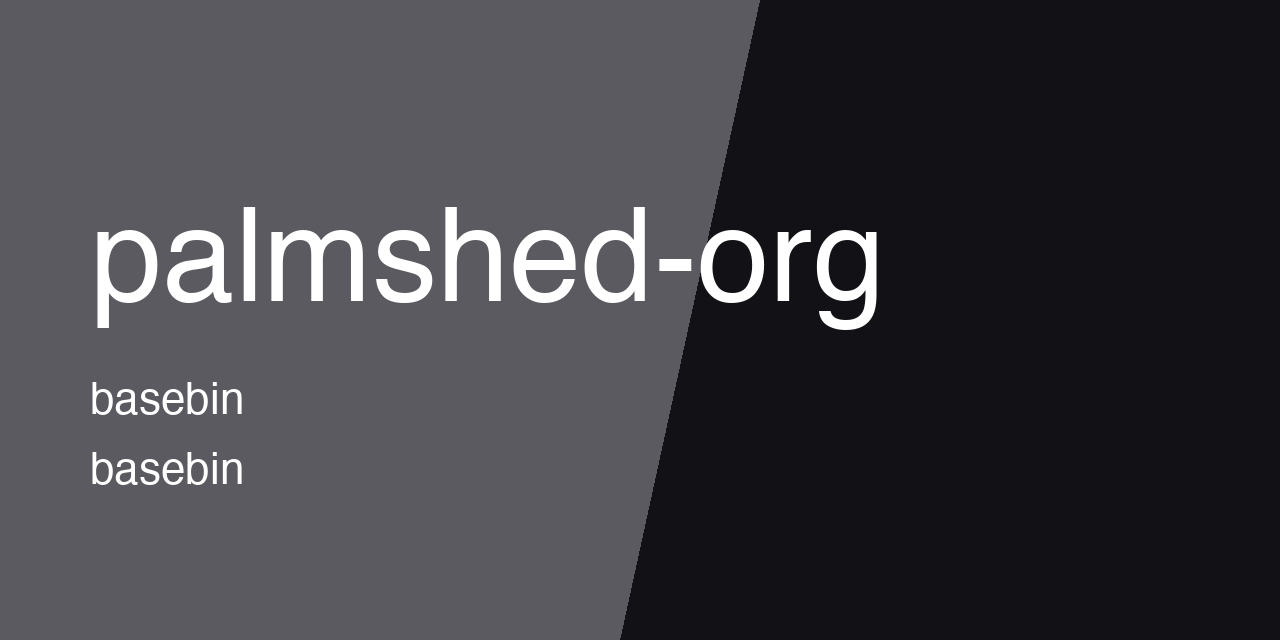
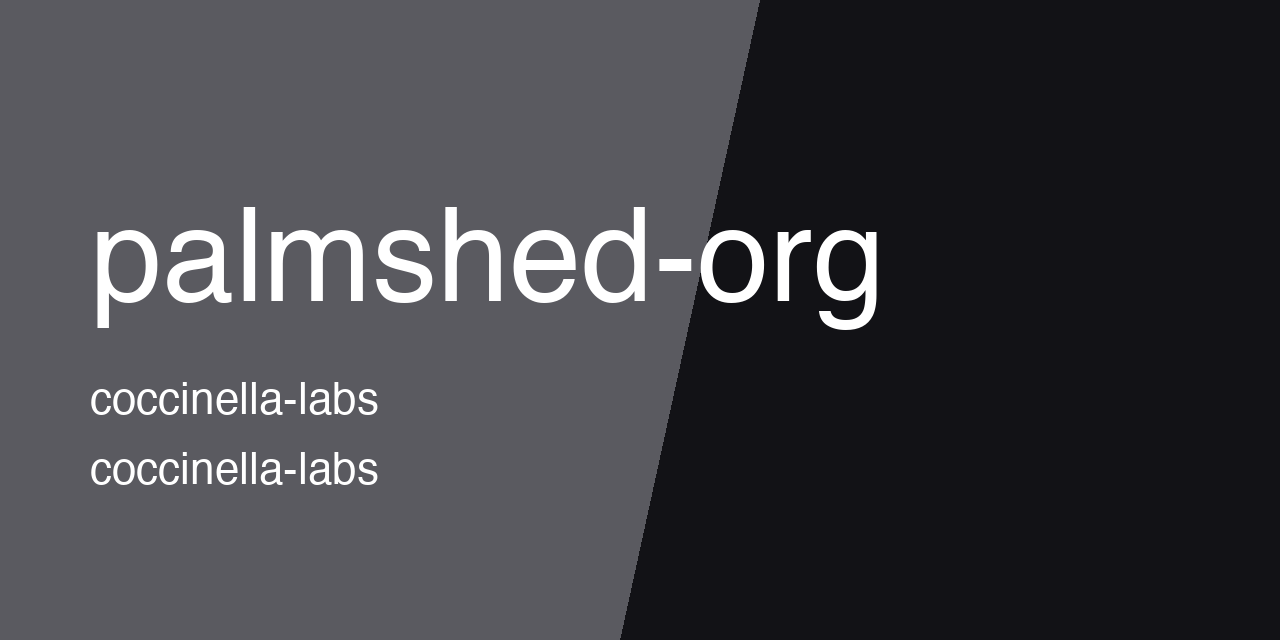
[docs] move thumbnail to coccinella-labs

Changed region(s): [[0.0625, 0.5938, 0.3125, 0.6562], [0.0625, 0.7188, 0.3125, 0.7812]]

diff --git a/README.md b/README.md
@@ -1,5 +1,5 @@
 <p align="center">
-  <img src="https://raw.githubusercontent.com/basebin/palmshed-org/main/.github/assets/thumbnail.png" alt="palmshed-org" width="100%">
+  <img src="https://raw.githubusercontent.com/Coccinella-Labs/palmshed-org/main/.github/assets/thumbnail.png" alt="palmshed-org" width="100%">
 </p>
 
 # .github
